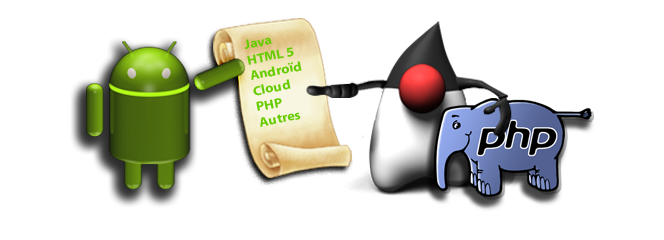
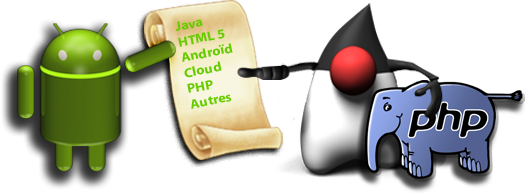
[ACCUEIL] Ajout de la date de l'évènement en haut à droite, texte de la bannière réduit (impossible de le tenir sur une ligne et avoir une lisibilité suffisante)
git-svn-id: https://jcertif-web-app.googlecode.com/svn/trunk@43 bdc9bba0-42ee-03f9-1e93-cd8d94170fb4

diff --git a/jcertif-web/src/main/webapp/resources/css/style.css b/jcertif-web/src/main/webapp/resources/css/style.css
@@ -33,6 +33,20 @@ body {
 	height: 80px;
 }
 
+.header-title-date-event {
+	text-align: right;
+	padding-right: 5px;
+	font-size: 21px;
+}
+
+.header-title-date-event-text1 {
+	color: #00A61D;
+}
+
+.header-title-date-event-text2 {
+	color: #BF0418;
+}
+
 .header-user {
 	text-align: right;
 	margin-right: 5px;
@@ -289,22 +303,22 @@ font-size: 11pt;
 	background-image: url('../resources/img/home/home_banner.png');
 	height: 220px;
 	width: 100%;
+	margin-top: 10px;
 }
 
 .home-banner-people {
 	background-image: url('../resources/img/home/home_banner_people.png');
 	height: 190px;
 	background-repeat: no-repeat;
-	margin-top: 10px;
+	
 }
 
 
 .home-banner-text {
 	color: white;
-	text-align: center;
-	padding-left: 55%;
-	padding-right: 5%;
-	padding-top: 5%;
+	padding-left: 60%;
+	padding-right: 2%;
+	padding-top: 8%;
 	font-family: Helvetica;
 	font-size: 21pt;
 	font-weight: bold;
